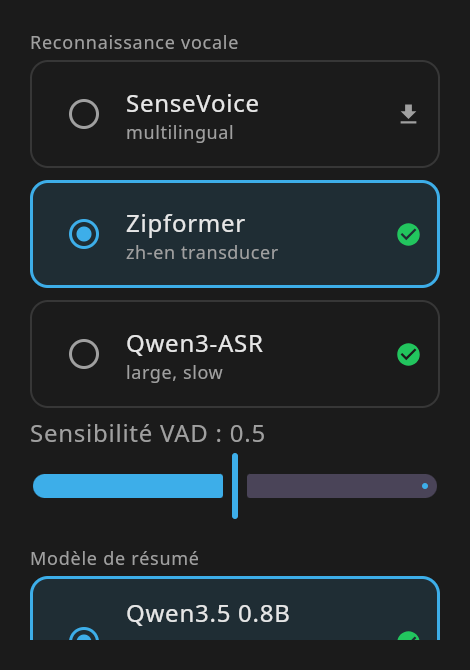
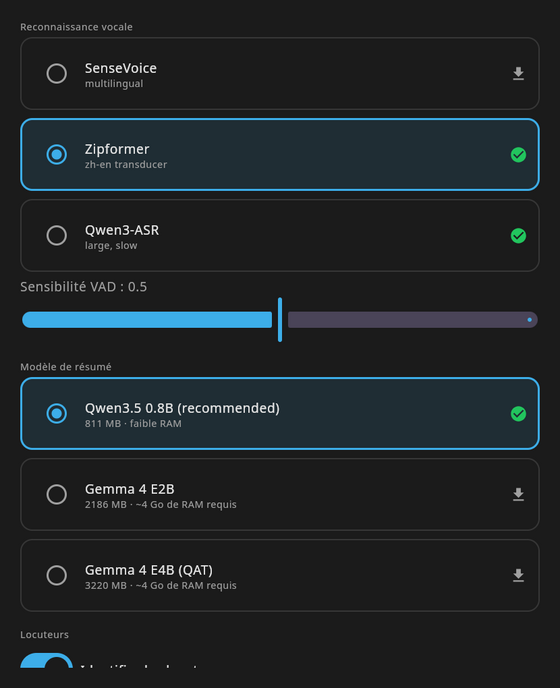
fix(desktop): dialogs no longer crop on HiDPI; settings follows A−/A+; collapsible sidebar
- Dialog windows (Settings / Add online / Models) were sized in raw window units
  while their CONTENT scaled via HiDpiScaled — on a scaled X11 desktop the window
  stayed e.g. 480px around 1.5x-laid-out content, cropping the bottom/right third
  ("settings look huge and incomplete"). hiDpiDialogScale() multiplies the window
  size by the detected scale, asking AWT directly (LocalDensity inside the parent's
  scaled composition would wrongly report AWT as already scaled). Settings also
  grew to 560×700 dp so more content is visible before scrolling.
- The Settings dialog now folds the user's A−/A+ font scale into its text, like
  the reading pane.
- The sessions sidebar is collapsible: a chevron next to SESSIONS folds it to a
  thin rail (persisted like the font scale) — more room for the transcript on
  small screens.
- docs: replace the settings screenshot (the old one was a crop artifact of the
  HiDPI dialog bug).

Claude-Session: https://claude.ai/code/session_01LjkZdzUqYRtQ17Uj53F5rr

diff --git a/desktop/src/jvmMain/kotlin/studio/voxsum/desktop/Main.kt b/desktop/src/jvmMain/kotlin/studio/voxsum/desktop/Main.kt
@@ -29,6 +29,8 @@ import androidx.compose.foundation.lazy.rememberLazyListState
 import androidx.compose.foundation.shape.CircleShape
 import androidx.compose.material.icons.Icons
 import androidx.compose.material.icons.filled.Add
+import androidx.compose.material.icons.filled.ChevronLeft
+import androidx.compose.material.icons.filled.ChevronRight
 import androidx.compose.material.icons.filled.CloudDownload
 import androidx.compose.material.icons.filled.Download
 import androidx.compose.material.icons.filled.Edit
@@ -450,14 +452,39 @@ private fun mainApplication() = application {
 
                 // ---- Two-pane: sessions sidebar | detail ----
                 Row(Modifier.fillMaxWidth().weight(1f)) {
-                    // Sidebar
+                    // Sidebar — collapsible: the chevron folds it to a thin rail (more room for
+                    // the transcript on small screens); the choice persists like the font scale.
+                    val uiStore = remember { KeyValueStore.forName("voxsum_ui") }
+                    var sidebarCollapsed by remember { mutableStateOf(uiStore.getBoolean("sidebarCollapsed", false)) }
+                    if (sidebarCollapsed) {
+                        Column(
+                            Modifier.width(30.dp).fillMaxHeight().background(pal.InsetSurface),
+                            horizontalAlignment = Alignment.CenterHorizontally,
+                        ) {
+                            IconButton(
+                                onClick = { sidebarCollapsed = false; uiStore.putBoolean("sidebarCollapsed", false) },
+                                modifier = Modifier.padding(top = 4.dp).size(26.dp),
+                            ) {
+                                Icon(Icons.Filled.ChevronRight, contentDescription = Strings.sessions, tint = pal.Slate400, modifier = Modifier.size(18.dp))
+                            }
+                        }
+                    } else {
                     Column(Modifier.width(240.dp).fillMaxHeight().background(pal.InsetSurface)) {
-                        Text(
-                            Strings.sessions,
-                            style = MaterialTheme.typography.labelMedium,
-                            color = pal.Slate400,
-                            modifier = Modifier.padding(start = 14.dp, top = 12.dp, bottom = 6.dp),
-                        )
+                        Row(verticalAlignment = Alignment.CenterVertically, modifier = Modifier.padding(top = 6.dp)) {
+                            Text(
+                                Strings.sessions,
+                                style = MaterialTheme.typography.labelMedium,
+                                color = pal.Slate400,
+                                modifier = Modifier.padding(start = 14.dp).weight(1f),
+                            )
+                            IconButton(
+                                onClick = { sidebarCollapsed = true; uiStore.putBoolean("sidebarCollapsed", true) },
+                                modifier = Modifier.size(26.dp),
+                            ) {
+                                Icon(Icons.Filled.ChevronLeft, contentDescription = Strings.sessions, tint = pal.Slate400, modifier = Modifier.size(18.dp))
+                            }
+                            Spacer(Modifier.width(4.dp))
+                        }
                         if (recents.isEmpty()) {
                             Text(
                                 Strings.noSessionsYet,
@@ -505,6 +532,7 @@ private fun mainApplication() = application {
                                 Text(Strings.addAudio)
                             }
                         }
+                    }
                     }
                     VerticalDivider(color = pal.Hairline)
 
@@ -762,23 +790,25 @@ private fun ToolButton(
 ) {
     val pal = LocalVoxSumPalette.current
     val compact = LocalToolbarCompact.current
-    val button: @androidx.compose.runtime.Composable () -> Unit = {
-        TextButton(onClick = onClick, enabled = enabled) {
-            Icon(icon, contentDescription = label, tint = tint ?: if (enabled) pal.Slate200 else pal.Slate400.copy(alpha = 0.5f), modifier = Modifier.size(18.dp))
-            if (!compact) {
-                Spacer(Modifier.width(6.dp))
-                Text(label, style = MaterialTheme.typography.labelLarge, color = tint ?: if (enabled) pal.Slate200 else pal.Slate400.copy(alpha = 0.5f))
-            }
-        }
-    }
+    val iconTint = tint ?: if (enabled) pal.Slate200 else pal.Slate400.copy(alpha = 0.5f)
     if (compact) {
+        // IconButton, not TextButton: Material's TextButton min-width (~64dp) would still
+        // overflow twelve buttons at the default 1000dp window; icon buttons fit in ~600dp.
         androidx.compose.foundation.TooltipArea(tooltip = {
             Surface(color = pal.Slate800, shadowElevation = 4.dp, shape = RoundedCornerShape(4.dp)) {
                 Text(label, Modifier.padding(horizontal = 8.dp, vertical = 4.dp), color = pal.Slate200, style = MaterialTheme.typography.labelMedium)
             }
-        }) { button() }
+        }) {
+            IconButton(onClick = onClick, enabled = enabled) {
+                Icon(icon, contentDescription = label, tint = iconTint, modifier = Modifier.size(18.dp))
+            }
+        }
     } else {
-        button()
+        TextButton(onClick = onClick, enabled = enabled) {
+            Icon(icon, contentDescription = label, tint = iconTint, modifier = Modifier.size(18.dp))
+            Spacer(Modifier.width(6.dp))
+            Text(label, style = MaterialTheme.typography.labelLarge, color = iconTint)
+        }
     }
 }
 

diff --git a/desktop/src/jvmMain/kotlin/studio/voxsum/desktop/SettingsDialog.kt b/desktop/src/jvmMain/kotlin/studio/voxsum/desktop/SettingsDialog.kt
@@ -61,12 +61,22 @@ fun SettingsDialog(
     var vadThreshold by remember { mutableStateOf(config.vadThreshold) }
     var summaryPrompt by remember { mutableStateOf(config.summaryPrompt) }
 
+    // Window size must follow the content scale (see hiDpiDialogScale) or the dialog crops.
+    val dialogScale = studio.voxsum.desktop.ui.hiDpiDialogScale()
     DialogWindow(
         onCloseRequest = onDismiss,
         title = Strings.settings,
-        state = androidx.compose.ui.window.rememberDialogState(width = 480.dp, height = 700.dp),
+        state = androidx.compose.ui.window.rememberDialogState(width = (560 * dialogScale).dp, height = (700 * dialogScale).dp),
     ) {
         studio.voxsum.desktop.ui.HiDpiScaled {
+        // Fold the user's A−/A+ font scale into the dialog too — it previously applied only to
+        // the reading pane, leaving Settings text at a fixed size.
+        val baseDensity = androidx.compose.ui.platform.LocalDensity.current
+        val userFontScale = remember { studio.voxsum.core.config.FontScaleStore.load() }
+        androidx.compose.runtime.CompositionLocalProvider(
+            androidx.compose.ui.platform.LocalDensity provides
+                androidx.compose.ui.unit.Density(baseDensity.density, baseDensity.fontScale * userFontScale),
+        ) {
         val pal = LocalVoxSumPalette.current
         // One ModelManager, and the downloaded-state maps computed once per dialog open — these
         // are filesystem stats (asrReady/llmReady each stat several files), so computing them in
@@ -201,6 +211,7 @@ fun SettingsDialog(
                     )
                 }) { Text(Strings.save) }
             }
+        }
         }
         }
         }

diff --git a/desktop/src/jvmMain/kotlin/studio/voxsum/desktop/ui/HiDpi.kt b/desktop/src/jvmMain/kotlin/studio/voxsum/desktop/ui/HiDpi.kt
@@ -44,6 +44,26 @@ fun detectLinuxUiScale(): Double? {
 private val cachedScale: Double? by lazy { detectLinuxUiScale() }
 
 /**
+ * Scale factor a DialogWindow must apply to its WINDOW size (rememberDialogState) so it matches
+ * the content scale [HiDpiScaled] applies inside. Without this, a dialog sized 480.dp gets a
+ * 480 px window on stock X11 (AWT density 1) while its content lays out 1.5–2x larger — the
+ * bottom/right of the dialog is simply cropped. Same guard as HiDpiScaled: no-op where AWT
+ * already scaled (GNOME).
+ */
+fun hiDpiDialogScale(): Float {
+    val detected = cachedScale ?: return 1f
+    if (detected <= 1.0) return 1f
+    // Ask AWT directly (NOT LocalDensity — dialog composables run inside the parent's already-
+    // scaled composition, where the density reads as the detected scale and the guard would
+    // wrongly conclude AWT handled it). Window sizes are interpreted with AWT's transform.
+    val awt = runCatching {
+        java.awt.GraphicsEnvironment.getLocalGraphicsEnvironment()
+            .defaultScreenDevice.defaultConfiguration.defaultTransform.scaleX
+    }.getOrDefault(1.0)
+    return if (awt <= 1.05) detected.toFloat() else 1f
+}
+
+/**
  * HiDPI density override for a window's content. EVERY top-level window (the main Window and
  * each DialogWindow body) must wrap its content in this: custom composition locals (the theme
  * palette) propagate from the caller into a DialogWindow, but LocalDensity is RESET by each

diff --git a/desktop/src/jvmMain/kotlin/studio/voxsum/desktop/AddSourceDialog.kt b/desktop/src/jvmMain/kotlin/studio/voxsum/desktop/AddSourceDialog.kt
@@ -48,10 +48,12 @@ private enum class SourceTab { PODCAST, YOUTUBE }
 @Composable
 fun AddSourceDialog(onDismiss: () -> Unit, onDownloaded: (File, String?) -> Unit) {
     var tab by remember { mutableStateOf(SourceTab.PODCAST) }
+    // Window size must follow the content scale (see hiDpiDialogScale) or the dialog crops.
+    val dialogScale = studio.voxsum.desktop.ui.hiDpiDialogScale()
     DialogWindow(
         onCloseRequest = onDismiss,
         title = Strings.addOnlineAudio,
-        state = androidx.compose.ui.window.rememberDialogState(width = 760.dp, height = 620.dp),
+        state = androidx.compose.ui.window.rememberDialogState(width = (760 * dialogScale).dp, height = (620 * dialogScale).dp),
     ) {
         studio.voxsum.desktop.ui.HiDpiScaled {
         val pal = LocalVoxSumPalette.current

diff --git a/desktop/src/jvmMain/kotlin/studio/voxsum/desktop/ModelsDialog.kt b/desktop/src/jvmMain/kotlin/studio/voxsum/desktop/ModelsDialog.kt
@@ -34,10 +34,12 @@ fun ModelsDialog(onDismiss: () -> Unit) {
     val models = remember { ModelManager(appDataDir) }
     var entries by remember { mutableStateOf(models.storedModels()) }
 
+    // Window size must follow the content scale (see hiDpiDialogScale) or the dialog crops.
+    val dialogScale = studio.voxsum.desktop.ui.hiDpiDialogScale()
     DialogWindow(
         onCloseRequest = onDismiss,
         title = Strings.downloadedModels,
-        state = androidx.compose.ui.window.rememberDialogState(width = 520.dp, height = 480.dp),
+        state = androidx.compose.ui.window.rememberDialogState(width = (520 * dialogScale).dp, height = (480 * dialogScale).dp),
     ) {
         studio.voxsum.desktop.ui.HiDpiScaled {
         val pal = LocalVoxSumPalette.current
